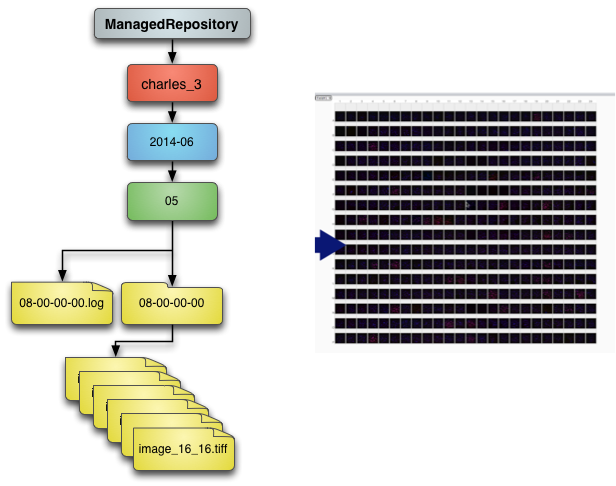
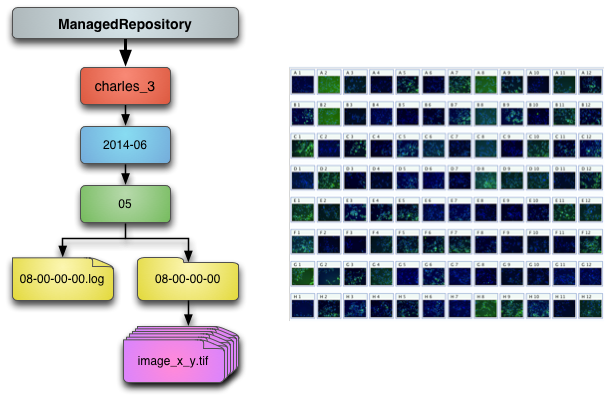
Review and add images.

diff --git a/2014/fs-workshop-paris/index.html b/2014/fs-workshop-paris/index.html
@@ -197,7 +197,7 @@
         <section>
           <section>
             <h3>Filesets: One to one</h3>
-            <img src="diagrams/fileset_1x1.png" width="90%"/>
+            <img src="diagrams/fileset_1x1.png" width="100%"/>
             <aside class="notes">
               This diagram is to be tidied if okay in principle.
             </aside>
@@ -205,7 +205,7 @@
 
           <section>
             <h3>Filesets: One to many</h3>
-            <img src="diagrams/fileset_1xn.png" width="90%"/>
+            <img src="diagrams/fileset_1xn.png" width="100%"/>
             <aside class="notes">
               This diagram is to be tidied if okay in principle.
             </aside>
@@ -213,7 +213,7 @@
 
           <section>
             <h3>Filesets: Many to many</h3>
-            <img src="diagrams/fileset_nxn.png" width="90%"/>
+            <img src="diagrams/fileset_nxn.png" width="100%"/>
             <aside class="notes">
               This diagram is to be tidied if okay in principle.
             </aside>
@@ -297,9 +297,39 @@
               This diagram needs duplicating to show the different methods.
             </aside>
           </section>
+
+          <section data-transition="none">
+            <h3>In-place import: ln_rm</h3>
+            <img src="diagrams/inplace-ln.png" width="100%"/>
+            <aside class="notes">
+              This diagram needs duplicating to show the different methods.
+            </aside>
+          </section>
+
+          <section data-transition="none">
+            <h3>In-place import: ln_rm</h3>
+            <img src="diagrams/inplace-ln_rm.png" width="100%"/>
+            <aside class="notes">
+              This diagram needs duplicating to show the different methods.
+            </aside>
+          </section>
         </section>
 
         <section>
+          <section>
+            <h3>DropBox</h3>
+            <img src="diagrams/dropbox_now.png" width="90%"/>
+            <aside class="notes">
+            </aside>
+          </section>
+
+          <section>
+            <h3>DropBox</h3>
+            <img src="diagrams/dropbox_future.png" width="90%"/>
+            <aside class="notes">
+            </aside>
+          </section>
+
           <section>
             <h2>DropBox import</h2>
             <ul>
@@ -312,14 +342,6 @@
               </ul>
             </ul>
             <aside class="notes">
-            </aside>
-          </section>
-
-          <section>
-            <h3>DropBox</h3>
-            <p>IMAGE PLACEHOLDER</p>
-            <aside class="notes">
-              I'm not sure if there is a useful image here?
             </aside>
           </section>
         </section>
@@ -475,7 +497,7 @@ omero.fs.repo.path=%user%_%userId%/%year%-%month%/%day%/%time%
 
           <section>
             <h3>Samba</h3>
-            <img src="diagrams/samba.png" width="90%"/>
+            <img src="diagrams/samba.png" width="100%"/>
             <aside class="notes">
               Is there a reasonable diagram?
               One in graffle looked partially complete.
@@ -522,13 +544,6 @@ omero.fs.repo.path=%user%_%userId%/%year%-%month%/%day%/%time%
               new mounts will have to be under /OMERO/ManagedRepo.
             </aside>
           </section>
-
-          <section>
-            <h3>Adding disks</h3>
-            <img alt="mounts" src="diagrams/mounts.png" width="90%"/>
-            <aside class="notes">
-            </aside>
-          </section>
         </section>
 
         <section>
@@ -563,7 +578,7 @@ omero.fs.repo.path=%user%_%userId%/%year%-%month%/%day%/%time%
 
           <section>
             <h3>Java-less import</h3>
-            <img src="diagrams/import-no-bf.png" width="75%"/>
+            <img src="diagrams/import-no-bf.png" width="100%"/>
             <aside class="notes">
             </aside>
           </section>
